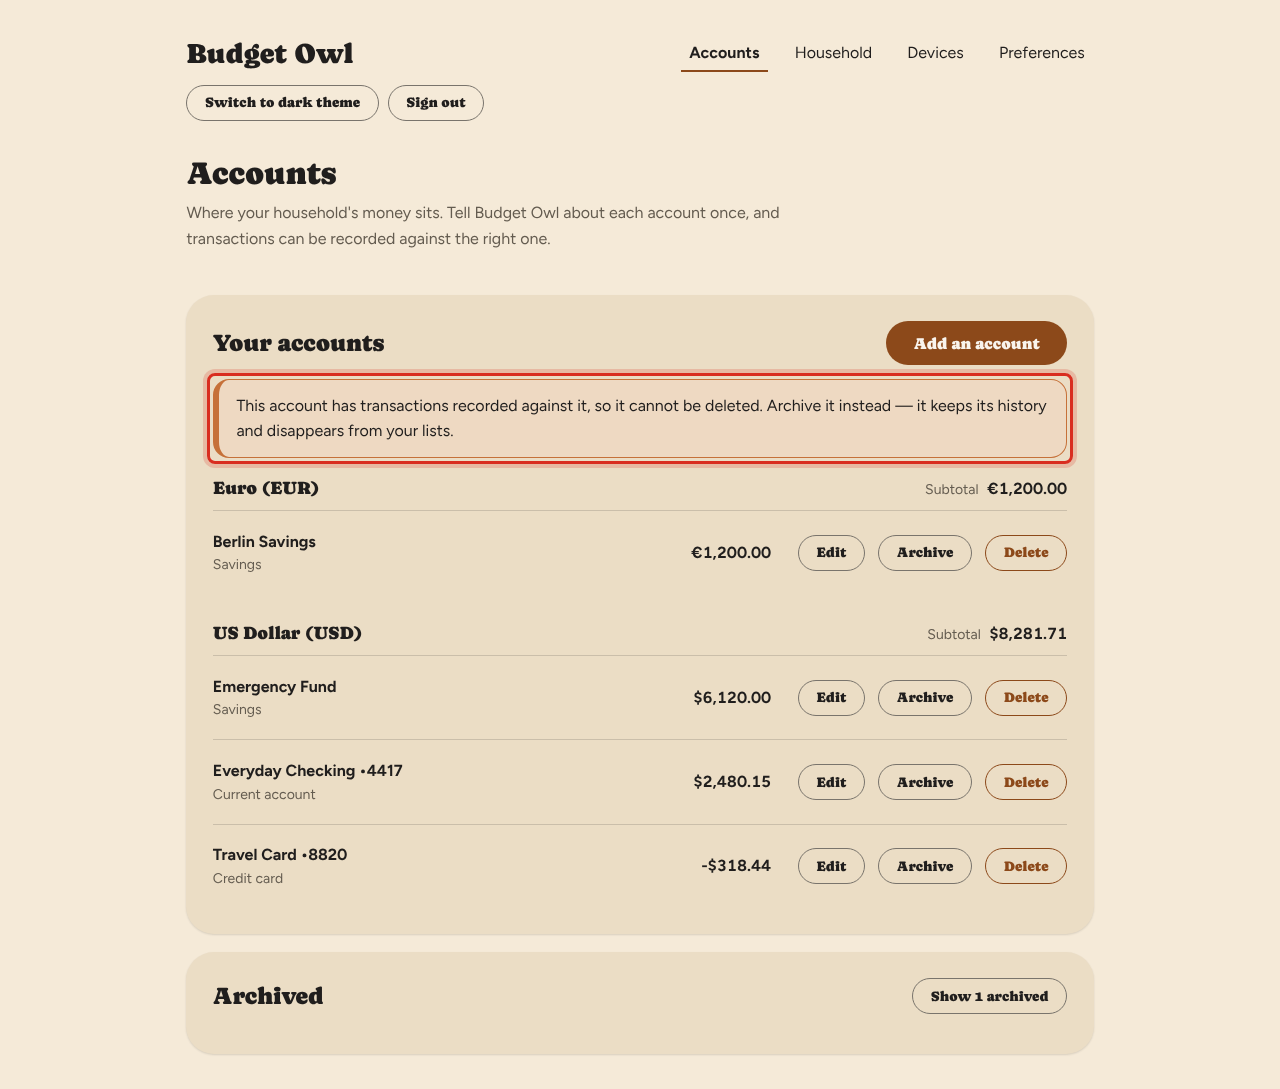
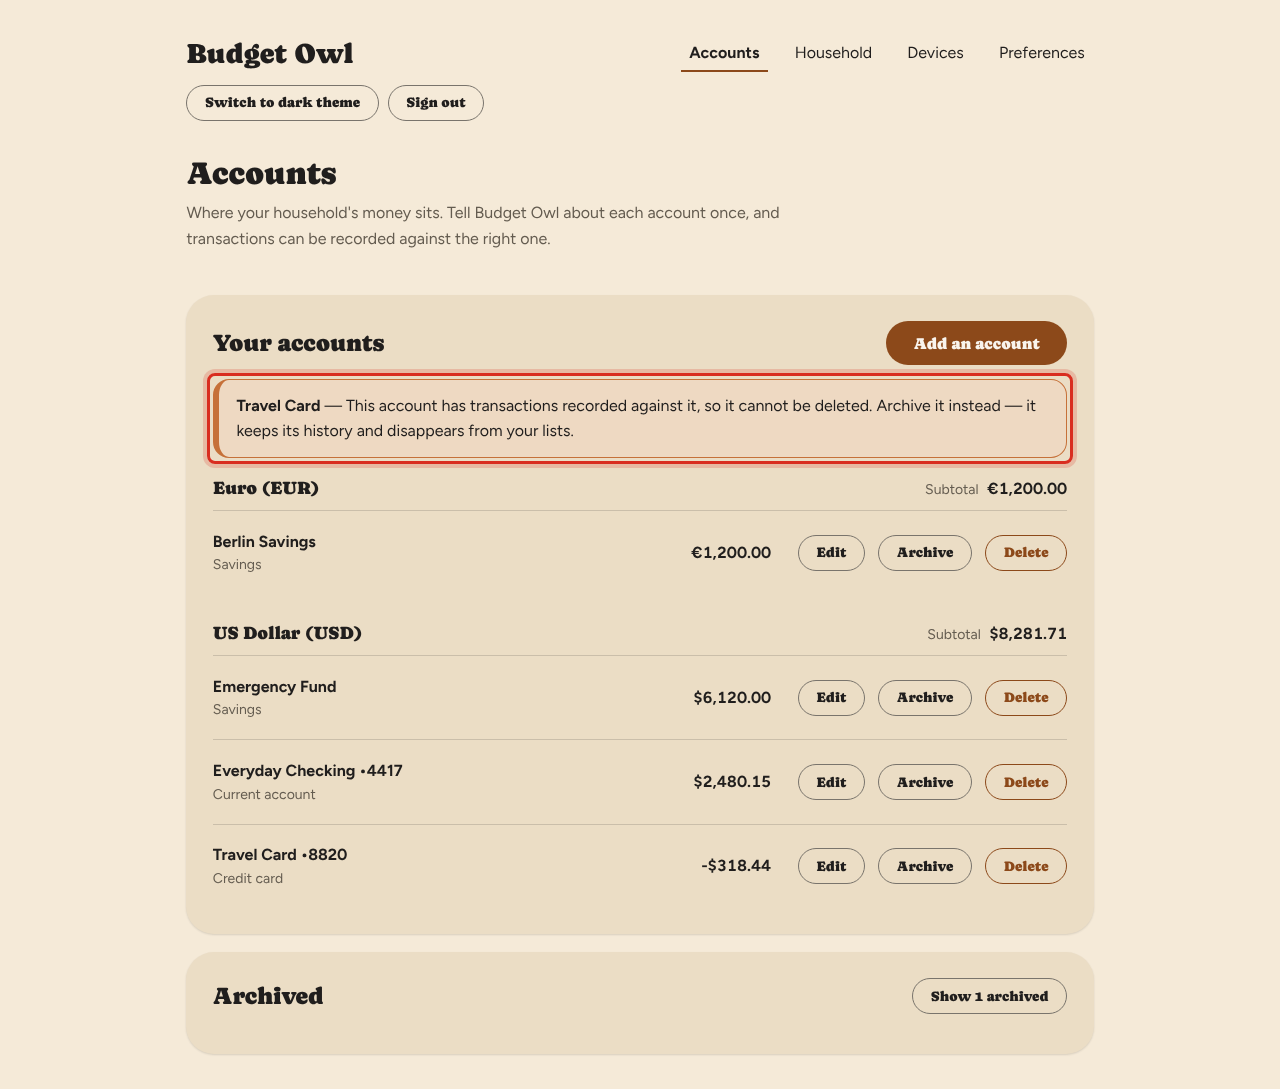
fix(ui): stop the sticky actions bar hiding the field underneath it
Writing the user guide found a regression I introduced making the dialog's
actions sticky. The bar is painted over the dialog's own scroll area, and
nothing told the browser it was there, so scrolling a field into view — or
focusing it from the keyboard — parked it UNDER the bar: invisible, but "in
view" as far as the browser was concerned. Playwright's fill() agreed, and the
guide could not photograph the Opening balance field without scrolling the
dialog by hand.

That is the field people most often get wrong, and the hint explaining why a
credit card starts negative sits with it.

scroll-padding-block-end reserves the bar's height, and the dialog now declares
itself a scroll container rather than relying on the UA default. Re-captured
and looked at: the field and its hint are fully visible above the bar.

Two things the guide could only describe apologetically, which is usually a
design problem rather than a writing one:

Archiving an account with a negative balance moves its currency subtotal UP,
because a debt left the list. Correct, and alarming with nothing on screen to
explain it. The archive confirmation now says the subtotal will change.

A refused delete put "This account has transactions recorded against it" at the
top of the card, with five accounts on screen and nothing saying which one it
meant. ErrorAlertComponent takes a subject so an alert that cannot sit beside
its cause can at least name it.
[…]

Changed region(s): [[0.1875, 0.3434, 0.8125, 0.4059]]

diff --git a/frontend/src/app/features/accounts/pages/accounts.page.ts b/frontend/src/app/features/accounts/pages/accounts.page.ts
@@ -127,6 +127,9 @@ export class AccountsPage {
 
   protected readonly busyId = signal<string | null>(null);
   protected readonly actionError = signal<ApiError | null>(null);
+
+  /** Which account the {@link actionError} is about, so the alert can name it. */
+  protected readonly actionErrorAccount = signal<string | null>(null);
   protected readonly notice = signal<MessageKey | null>(null);
   protected readonly pending = signal<PendingAction | null>(null);
 
@@ -305,12 +308,14 @@ export class AccountsPage {
 
   protected askToArchive(account: Account): void {
     this.actionError.set(null);
+    this.actionErrorAccount.set(null);
     this.notice.set(null);
     this.pending.set({ kind: 'archive', account });
   }
 
   protected askToDelete(account: Account): void {
     this.actionError.set(null);
+    this.actionErrorAccount.set(null);
     this.notice.set(null);
     this.pending.set({ kind: 'delete', account });
   }
@@ -327,6 +332,7 @@ export class AccountsPage {
     const { kind, account } = action;
     this.busyId.set(account.id);
     this.actionError.set(null);
+    this.actionErrorAccount.set(null);
     try {
       if (kind === 'archive') {
         this.replace(await firstValueFrom(this.service.archive(account.id)));
@@ -340,7 +346,11 @@ export class AccountsPage {
       this.pending.set(null);
     } catch (thrown) {
       // `account-not-empty` lands here: the sentence it renders names archiving as the way out.
+      // The alert sits at the top of the card rather than beside the row that was refused, so with
+      // several accounts it has to say which one it means — otherwise the reader is left matching
+      // a refusal to an action they took a moment ago.
       this.pending.set(null);
+      this.actionErrorAccount.set(account.name);
       this.actionError.set(asApiError(thrown));
     } finally {
       this.busyId.set(null);
@@ -351,6 +361,7 @@ export class AccountsPage {
   protected async unarchive(account: Account): Promise<void> {
     this.busyId.set(account.id);
     this.actionError.set(null);
+    this.actionErrorAccount.set(null);
     this.notice.set(null);
     try {
       this.replace(await firstValueFrom(this.service.unarchive(account.id)));
@@ -372,6 +383,7 @@ export class AccountsPage {
   private finish(notice: MessageKey): void {
     this.closeDialog();
     this.actionError.set(null);
+    this.actionErrorAccount.set(null);
     this.notice.set(notice);
   }
 

diff --git a/frontend/src/app/shared/components/error-alert.component.ts b/frontend/src/app/shared/components/error-alert.component.ts
@@ -17,7 +17,13 @@ import { TranslatePipe } from '../../core/i18n/t.pipe';
   template: `
     @if (error(); as failure) {
       <div class="alert" role="alert">
-        <p>{{ failure | errorText }}</p>
+        <p>
+          @if (subject(); as named) {
+            <strong>{{ named }}</strong>
+            {{ '&mdash;' }}
+          }
+          {{ failure | errorText }}
+        </p>
         @if (failure.correlationId && failure.status >= 500) {
           <p class="small muted">{{ 'error.reference' | t: { id: failure.correlationId } }}</p>
         }
@@ -27,4 +33,12 @@ import { TranslatePipe } from '../../core/i18n/t.pipe';
 })
 export class ErrorAlertComponent {
   readonly error = input<ApiError | null>(null);
+
+  /**
+   * What the failure was about, when the alert does not sit beside it.
+   *
+   * An alert at the top of a list has no way of saying which row it means. Naming the subject is
+   * the difference between "this account has transactions" and knowing which of five it refused.
+   */
+  readonly subject = input<string | null>(null);
 }

diff --git a/frontend/src/styles/components.css b/frontend/src/styles/components.css
@@ -363,6 +363,16 @@ select.input {
 dialog.dialog {
   inline-size: min(34rem, calc(100vw - var(--space-6)));
   max-block-size: calc(100dvh - var(--space-6));
+  /*
+   * The dialog is its own scroll container, said explicitly rather than left to the UA default.
+   * scroll-padding keeps the sticky actions bar from being counted as empty space: without it,
+   * scrolling a field into view (or focusing it with a keyboard) parks it UNDER the bar, where it
+   * is invisible but still "in view" as far as the browser and Playwright's fill() are concerned.
+   * The guide found this the hard way — the Opening balance field, the one people most often get
+   * wrong, could not be photographed without scrolling the dialog by hand.
+   */
+  overflow-y: auto;
+  scroll-padding-block-end: calc(var(--space-8) * 2);
   padding: var(--space-6);
   border: 0;
   border-radius: var(--radius-lg);

diff --git a/frontend/src/app/features/accounts/pages/accounts.page.html b/frontend/src/app/features/accounts/pages/accounts.page.html
@@ -27,7 +27,7 @@
       </div>
 
       <div class="stack">
-        <app-error-alert [error]="actionError()" />
+        <app-error-alert [error]="actionError()" [subject]="actionErrorAccount()" />
         @if (notice(); as said) {
           <div class="alert alert-success" role="status">
             <p>{{ said | t }}</p>
